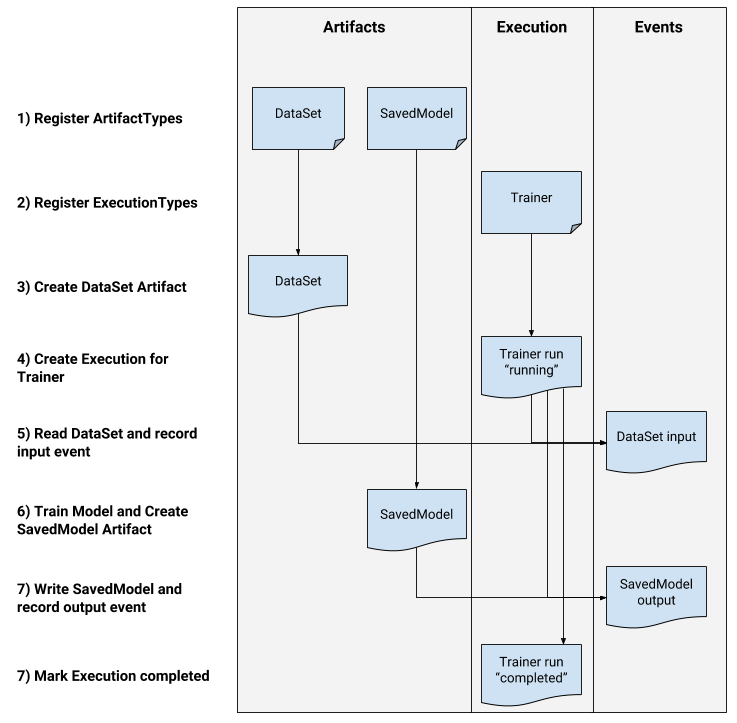
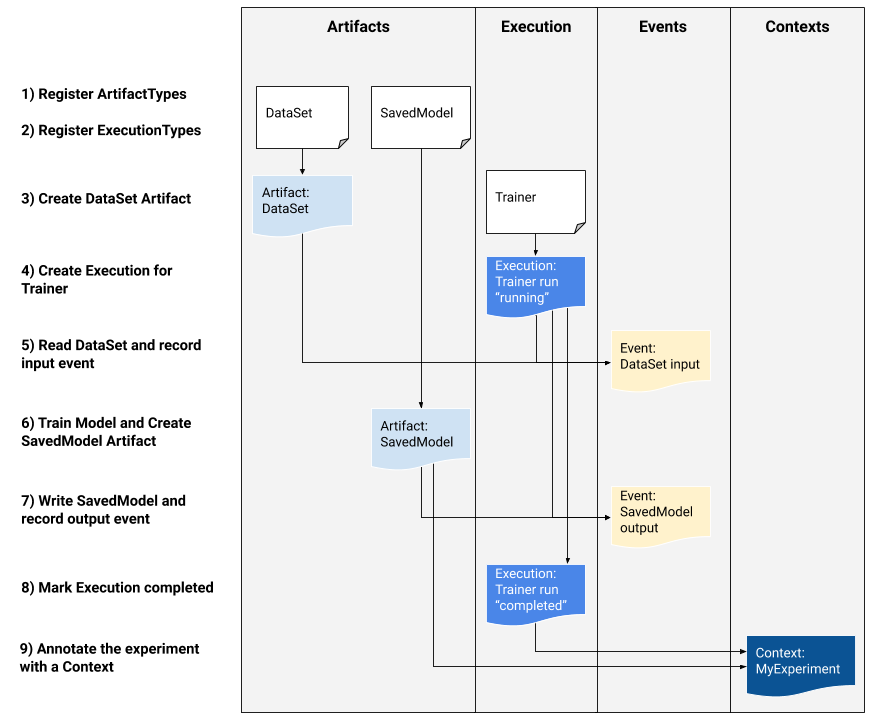
Updates MLMD documents for 0.14.0 release.
PiperOrigin-RevId: 264242956

diff --git a/g3doc/get_started.md b/g3doc/get_started.md
@@ -1,21 +1,25 @@
 # Getting Started with ML Metadata
 
-*ML Metadata (MLMD)* is a library for recording and retrieving metadata
-associated with ML developer and data scientist workflows. MLMD is an integral
-part of [TensorFlow Extended (TFX)](https://www.tensorflow.org/tfx), but is
-designed so that it can be used independently. As part of a broader platform
-like TFX, most users will never be directly exposed to MLMD. Instead, MLMD is an
-implementation detail of an ML platform that is owned by the platform
-developers.
+[ML Metadata (MLMD)](https://github.com/google/ml-metadata) is a library for
+recording and retrieving metadata associated with ML developer and data
+scientist workflows. MLMD is an integral part of
+[TensorFlow Extended (TFX)](https://www.tensorflow.org/tfx), but is designed so
+that it can be used independently. As part of the broader TFX platform, most
+users only interact with MLMD when examining the results of pipeline components,
+for example in notebooks or in TensorBoard.
 
 The graph below shows the components that are part of MLMD. The storage backend
 is pluggable and can be extended. MLMD provides reference implementations for
 SQLite (which supports in-memory and disk) and MySQL out of the box. The
 MetadataStore provides APIs to record and retrieve metadata to and from the
-storage backend. MLMD can register metadata about the artifacts generated
-through the components/steps of the pipelines, metadata about the executions of
-these components/steps, and the associated lineage information. The concepts are
-explained in more detail below.
+storage backend. MLMD can register:
+
+-   metadata about the artifacts generated through the components/steps of the
+    pipelines
+-   metadata about the executions of these components/steps
+-   metadata about the pipeline and associated lineage information
+
+The concepts are explained in more detail below.
 
 ![ML Metadata Overview](images/mlmd_overview.png)
 
@@ -25,21 +29,24 @@ Tracking the inputs and outputs of all components/steps in an ML workflow and
 their lineage allows ML platforms to enable several important features. The
 following list provides a non-exhaustive overview of some of the major benefits.
 
-*   **List all Artifacts of a specific type**, e.g. all Models that have been
-    trained.
-*   **Load two Artifacts of the same type for comparison**, e.g. to compare
+*   **List all Artifacts of a specific type.** Example: all Models that have
+    been trained.
+*   **Load two Artifacts of the same type for comparison.** Example: compare
     results from two experiments.
-*   **Show a DAG of all executions and their input and output artifacts**, e.g.
-    to visualize the workflow for debugging and discovery.
-*   **Recurse back through all events to see how an artifact was created**, e.g.
-    to see what data went into a model, or to enforce data retention plans.
-*   **Identify all artifacts that were created using a given artifact**, e.g. to
-    see all Models trained from a specific dataset, to mark models based upon
-    bad data.
-*   **Determine if an execution has been run on the same inputs before**, e.g.
-    to determine whether a component/step has already completed the same work
-    and the previous output can just be reused.
-*   Etc.
+*   **Show a DAG of all related executions and their input and output artifacts
+    of a context.** Example: visualize the workflow of an experiment for
+    debugging and discovery.
+*   **Recurse back through all events to see how an artifact was created.**
+    Examples: see what data went into a model; enforce data retention plans.
+*   **Identify all artifacts that were created using a given artifact.**
+    Examples: see all Models trained from a specific dataset; mark models based
+    upon bad data.
+*   **Determine if an execution has been run on the same inputs before.**
+    Example: determine whether a component/step has already completed the same
+    work and the previous output can just be reused.
+*   **Record and query context of workflow runs.** Examples: track the owner and
+    changelist used for a workflow run; group the lineage by experiments; manage
+    artifacts by projects.
 
 ## Metadata Storage Backends and Store Connection Configuration
 
@@ -84,26 +91,36 @@ store = metadata_store.MetadataStore(connection_config)
 The Metadata Store uses the following data model to record and retrieve metadata
 from the storage backend.
 
-*   `ArtifactType` describes a type of artifacts and their properties that are
+*   `ArtifactType` describes an artifact's type and its properties that are
     stored in the Metadata Store. These types can be registered on-the-fly with
     the Metadata Store in code, or they can be loaded in the store from a
     serialized format. Once a type is registered, its definition is available
     throughout the lifetime of the store.
-*   `Artifact`s are specific instances of ArtifactTypes and their properties
-    that are written to the Metadata Store.
+*   `Artifact` describes a specific instances of an `ArtifactType`, and its
+    properties that are written to the Metadata Store.
 *   `ExecutionType` describes a type of component or step in a workflow, and its
     runtime parameters.
-*   `Execution`s are records of running components or steps in an ML workflow
-    and their runtime parameters when they ran. An Execution can be thought of
-    as an instance of an ExecutionType (similar to how an Artifact is an
-    instance of an ArtifactType). Every time a developer runs an ML pipeline or
-    step, executions are recorded for each step.
-*   `Event`s record the relationship between Artifacts and Executions. When an
-    Execution happens, Events record every Artifact that was used by the
-    Execution, and every Artifact that was produced. These records allow for
-    provenance tracking throughout a workflow. By looking at all Events, MLMD
-    knows what Executions happened, what Artifacts were created as a result, and
-    can recurse back from any Artifact to all of its upstream inputs.
+*   `Execution` is a record of a component run or a step in an ML workflow and
+    the runtime parameters. An Execution can be thought of as an instance of an
+    `ExecutionType`. Every time a developer runs an ML pipeline or step,
+    executions are recorded for each step.
+*   `Event` is a record of the relationship between an `Artifact` and
+    `Executions`. When an `Execution` happens, `Event`s record every Artifact
+    that was used by the `Execution`, and every `Artifact` that was produced.
+    These records allow for provenance tracking throughout a workflow. By
+    looking at all Events MLMD knows what Executions happened, what Artifacts
+    were created as a result, and can recurse back from any `Artifact` to all of
+    its upstream inputs.
+*   `ContextType` describes a type of conceptual group of `Artifacts` and
+    `Executions` in a workflow, and its structural properties. For example:
+    projects, pipeline runs, experiments, owners.
+*   `Context` is an instances of a `ContextType`. It captures the shared
+    information within the group. For example: project name, changelist commit
+    id, experiment annotations.
+*   `Attribution` is a record of the relationship between Artifacts and
+    Contexts.
+*   `Association` is a record of the relationship between Executions and
+    Contexts.
 
 ### Tracking ML Workflows with ML Metadata
 
@@ -214,6 +231,33 @@ trainer_run.id.properties["state"].string_value = "COMPLETED"
 store.put_executions([trainer_run])
 ```
 
+9) Then the artifacts and executions can be grouped to a Context (e.g.,
+experiment).
+
+```python
+# Similarly, create a ContextType, e.g., Experiment with a `note` property
+experiment_type = metadata_store_pb2.ContextType()
+experiment_type.name = "Experiment"
+experiment_type.properties["note"] = metadata_store_pb2.STRING
+experiment_type_id = store.put_context_type(experiment_type)
+
+# Group the model and the trainer run to an experiment.
+my_experiment = metadata_store_pb2.Context()
+my_experiment.type_id = experiment_type_id;
+my_experiment.properties["note"].string_value = "My first experiment."
+experiment_id = store.put_contexts([my_experiment])
+
+attribution = metadata_store_pb2.Attribution()
+attribution.artifact_id = model_artifact_id
+attribution.context_id = experiment_id
+
+association = metadata_store_pb2.Association()
+association.execution_id = run_id
+attribution.context_id = experiment_id
+
+store.put_attributions_and_associations([attribution], [association])
+```
+
 ### With remote grpc server
 
 1) Start a server with
@@ -222,13 +266,7 @@ store.put_executions([trainer_run])
 bazel run -c opt --define grpc_no_ares=true  //ml_metadata/metadata_store:metadata_store_server
 ```
 
-2)  Install the client
-
-```bash
-bazel run --define grpc_no_ares=true //ml_metadata:build_pip_package
-```
-
-3) Using grpc client in python
+2) Create the client stub and use it in python
 
 ```python
 from grpc import insecure_channel
@@ -239,7 +277,7 @@ channel = insecure_channel('localhost:8080')
 stub = metadata_store_service_pb2_grpc.MetadataStoreServiceStub(channel)
 ```
 
-4) Register ArtifactTypes.
+3) Use MLMD with RPC calls
 
 ```python
 # Create ArtifactTypes, e.g., Data and Model
@@ -258,3 +296,31 @@ model_type.properties["name"] = metadata_store_pb2.STRING
 request.artifact_type.CopyFrom(model_type)
 stub.PutArtifactType(request)
 ```
+
+### Upgrade MLMD library
+
+When using a new MLMD release or your own build with an existing MLMD database,
+there may be database schema changes. Unless a breaking change is explicitly
+mentioned in the release note, all MLMD database schema changes are transparent
+for the MLMD API users.
+
+When the MLMD library connects to the database, it compares the expected schema
+version of the MLMD library (`library_version`) with the schema version
+(`db_version`) recorded in the given database.
+
+*   If `library_version` is compatible with `db_version`, nothing happens.
+*   If `library_version` is newer than `db_version`, it runs a single migration
+    transaction to evolve the database by executing a series of migration
+    scripts. The migration script is provided together with any schema change
+    commit and enforced by change reviews and verified by continuous tests.
+
+    NOTE: If the migration transaction has errors, the transaction will rollback
+    and keep the original database unchanged. If this case happens, it is
+    possible that other concurrent transaction ran in the same database, or the
+    migration script's test fails to capture all cases. If it is the latter
+    case, please report issues for a fix or downgrade library to work with the
+    database.
+
+*   If `library_version` is older than `db_version`, MLMD library returns errors
+    to prevent any data loss. In this case, the user should upgrade the library
+    version before using that database.
